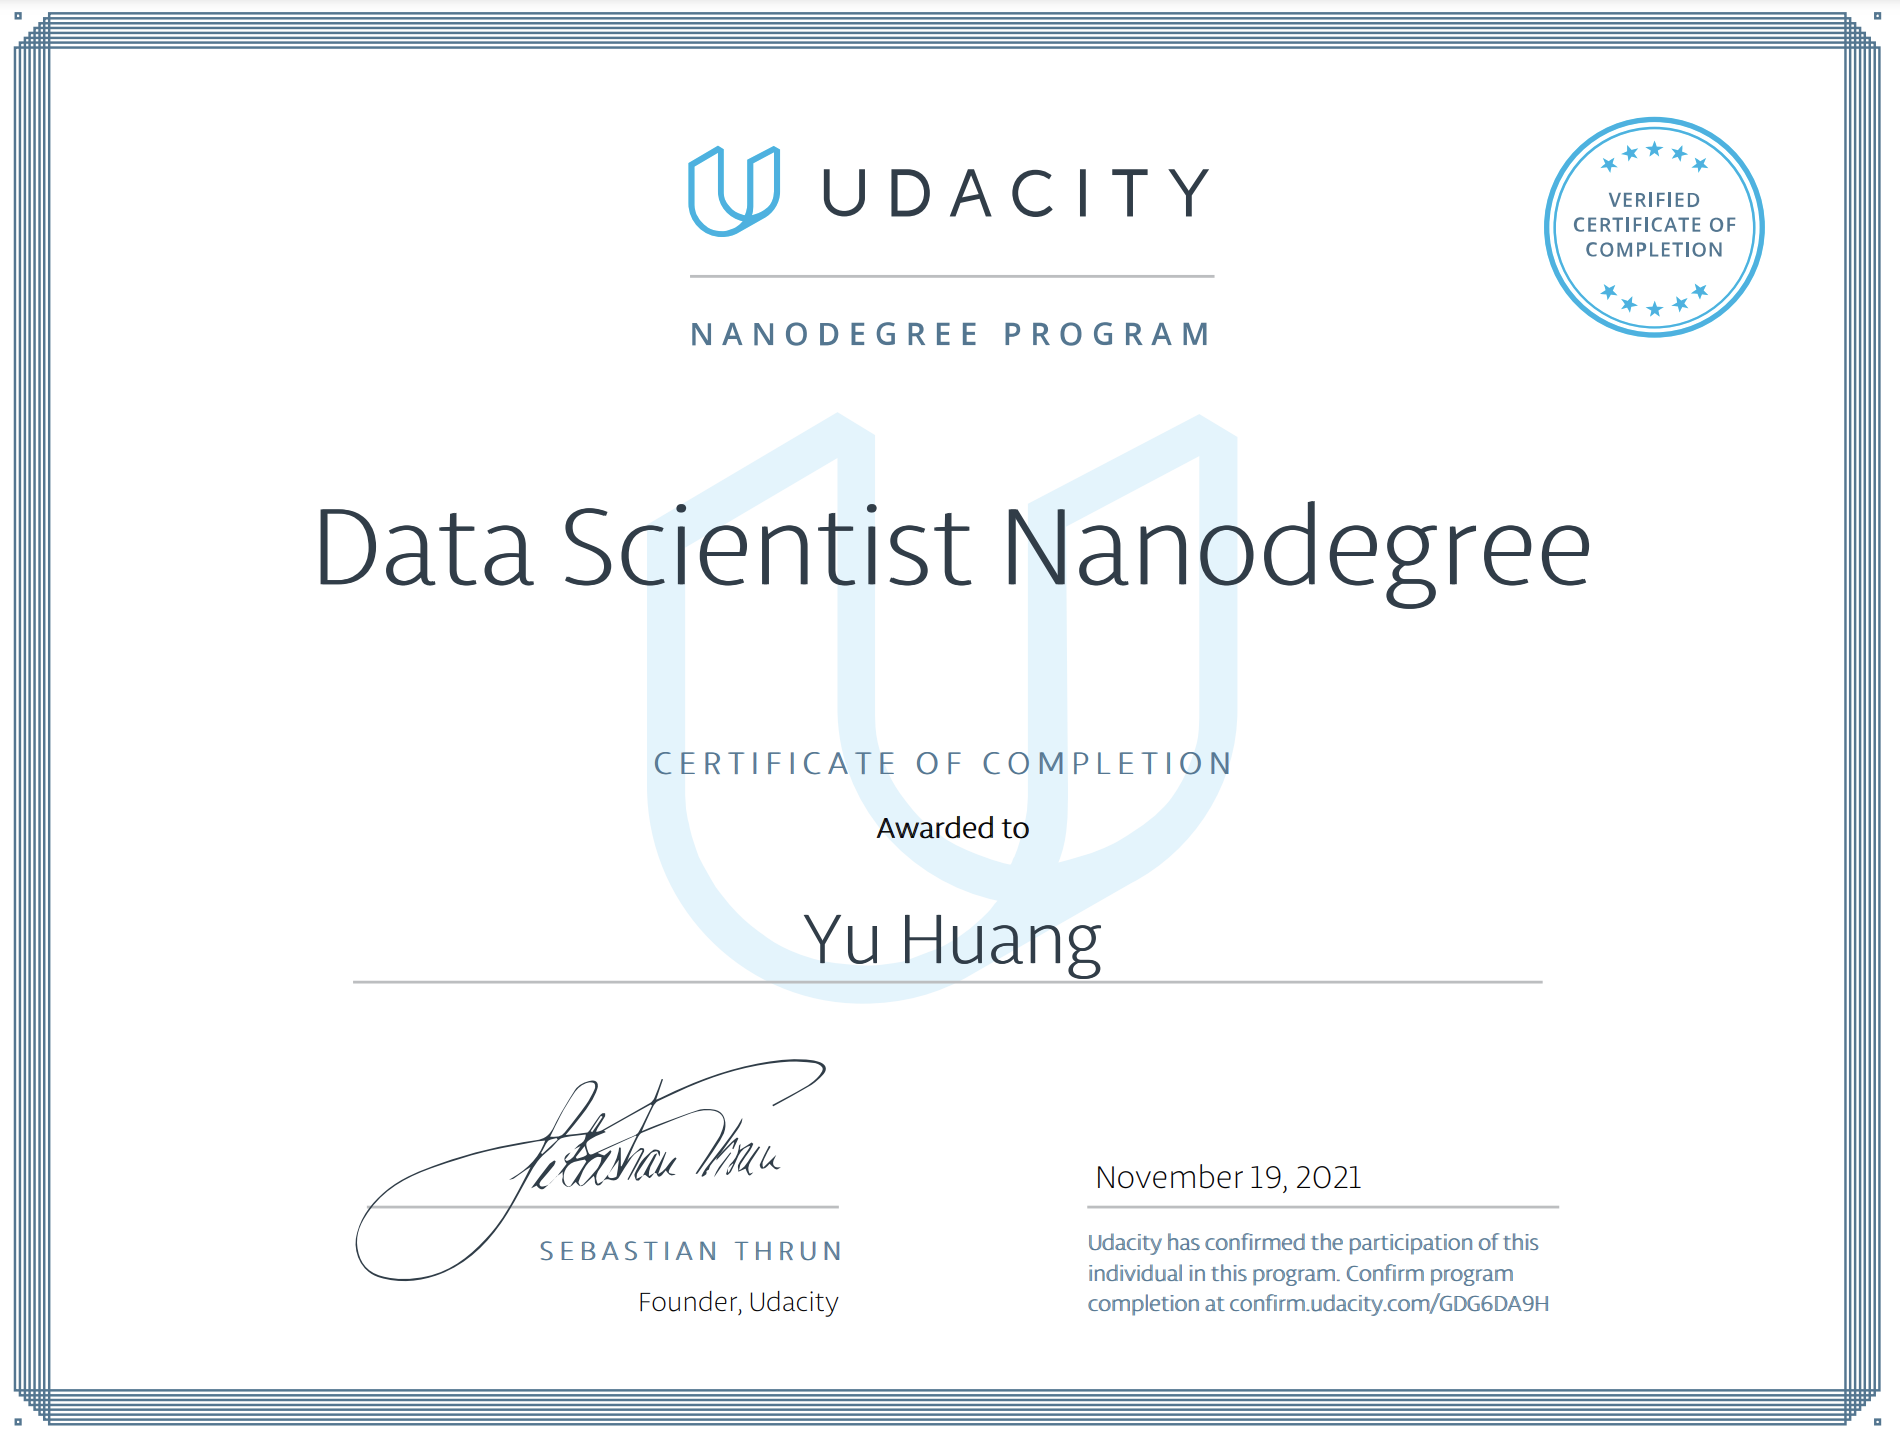
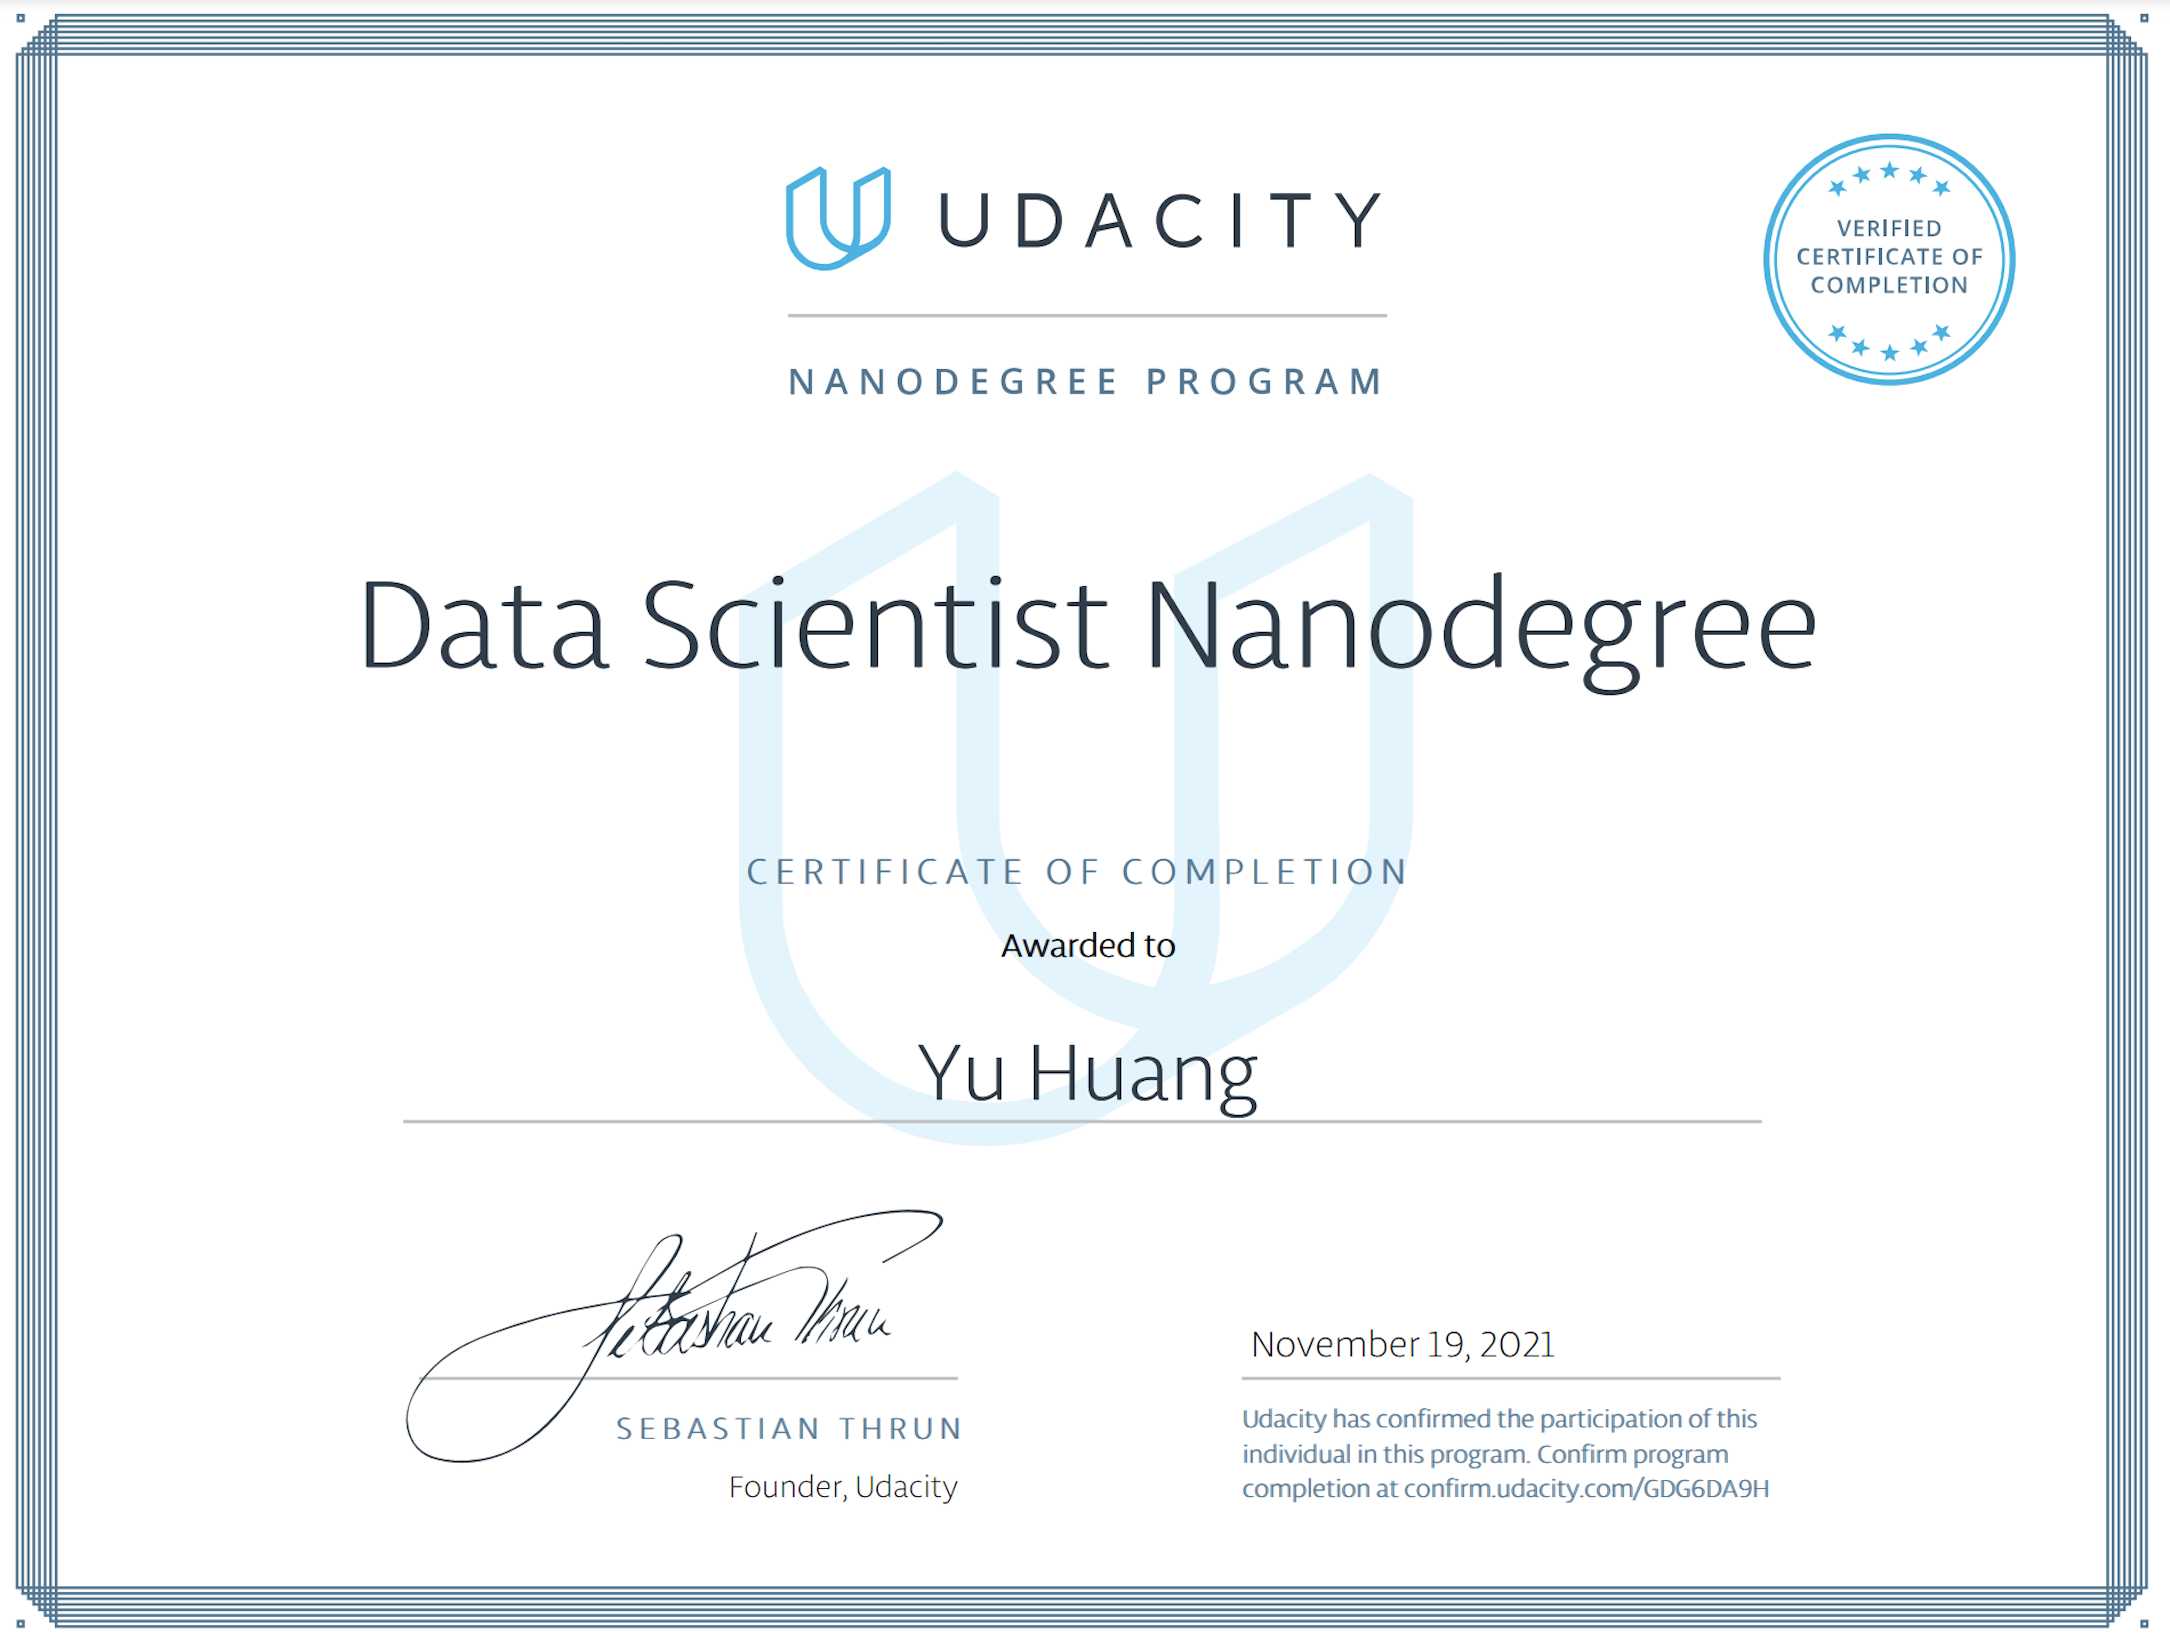
modify images size

Changed region(s): [[0.59, 0.8102, 0.6521, 0.8414], [0.4658, 0.5609, 0.5279, 0.5921], [0.3726, 0.374, 0.4037, 0.4051]]

diff --git a/certificates.html b/certificates.html
@@ -156,7 +156,7 @@
                         <p id="spacer1"></p>
                         <H4> <strong> Python for Data Science and Machine Learning Bootcamp </strong> </H4>
                         <p id="spacer1"></p>
-                        <img src="./img/udemy_data_science_2023.png" width="70%"  alt="data science and machine learning bootcamp"> 
+                        <img src="./img/udemy_data_science_2023.png" width="80%"  alt="data science and machine learning bootcamp"> 
                         <p id="spacer1"></p>
                     </article>
 
@@ -164,7 +164,7 @@
                         <p id="spacer1"></p>
                         <H4> <strong> Learning Power BI Desktop </strong> </H4>
                         <p id="spacer1"></p>
-                        <img src="./img/Certificate_Learning_Power_BI_Desktop.png" width="70%"  alt="Learning Power BI Desktop">           
+                        <img src="./img/Certificate_Learning_Power_BI_Desktop.png" width="80%"  alt="Learning Power BI Desktop">           
                         <p id="spacer1"></p>
                     </article>
 
@@ -172,7 +172,7 @@
                         <p id="spacer1"></p>
                         <H4> <strong> Power BI Essential Training </strong> </H4>
                         <p id="spacer1"></p>
-                        <img src="./img/Certificate_Power_BI_Essential_Training.png" width="70%"  alt="Power BI Essential Training">           
+                        <img src="./img/Certificate_Power_BI_Essential_Training.png" width="80%"  alt="Power BI Essential Training">           
                         <p id="spacer1"></p>
                     </article>
                 </article>
@@ -182,21 +182,21 @@
                         <p id="spacer1"></p>
                         <H4> <strong> Data Scientist Nanodegree </strong> </H4>
                         <p id="spacer1"></p>
-                        <img src="./img/udacity_data_scientist_nenodegree.png" width="70%"  alt="data scientist Nanodegree"> 
+                        <img src="./img/udacity_data_scientist_nenodegree.png" width="80%"  alt="data scientist Nanodegree"> 
                         <p id="spacer1"></p>
                     </article>   
                     <article>
                         <p id="spacer1"></p>
                         <H4> <strong> Power BI Top Skills </strong> </H4>
                         <p id="spacer1"></p>
-                        <img src="./img/Certificate_Power_BI_Top_Skills.png" width="70%"  alt="Power BI Top Skills"> 
+                        <img src="./img/Certificate_Power_BI_Top_Skills.png" width="80%"  alt="Power BI Top Skills"> 
                         <p id="spacer1"></p>
                     </article>   
                     <article>
                         <p id="spacer1"></p>
                         <H4> <strong> Advanced_Design Patterns: Design Principles</strong> </H4>
                         <p id="spacer1"></p>
-                        <img src="./img/Certificate_Advanced_Design_Patterns_Design_Principles.png" width="70%"  alt="Advanced_Design Patterns: Design Principles"> 
+                        <img src="./img/Certificate_Advanced_Design_Patterns_Design_Principles.png" width="80%"  alt="Advanced_Design Patterns: Design Principles"> 
                         <p id="spacer1"></p>
                     </article> 
                 </article>
